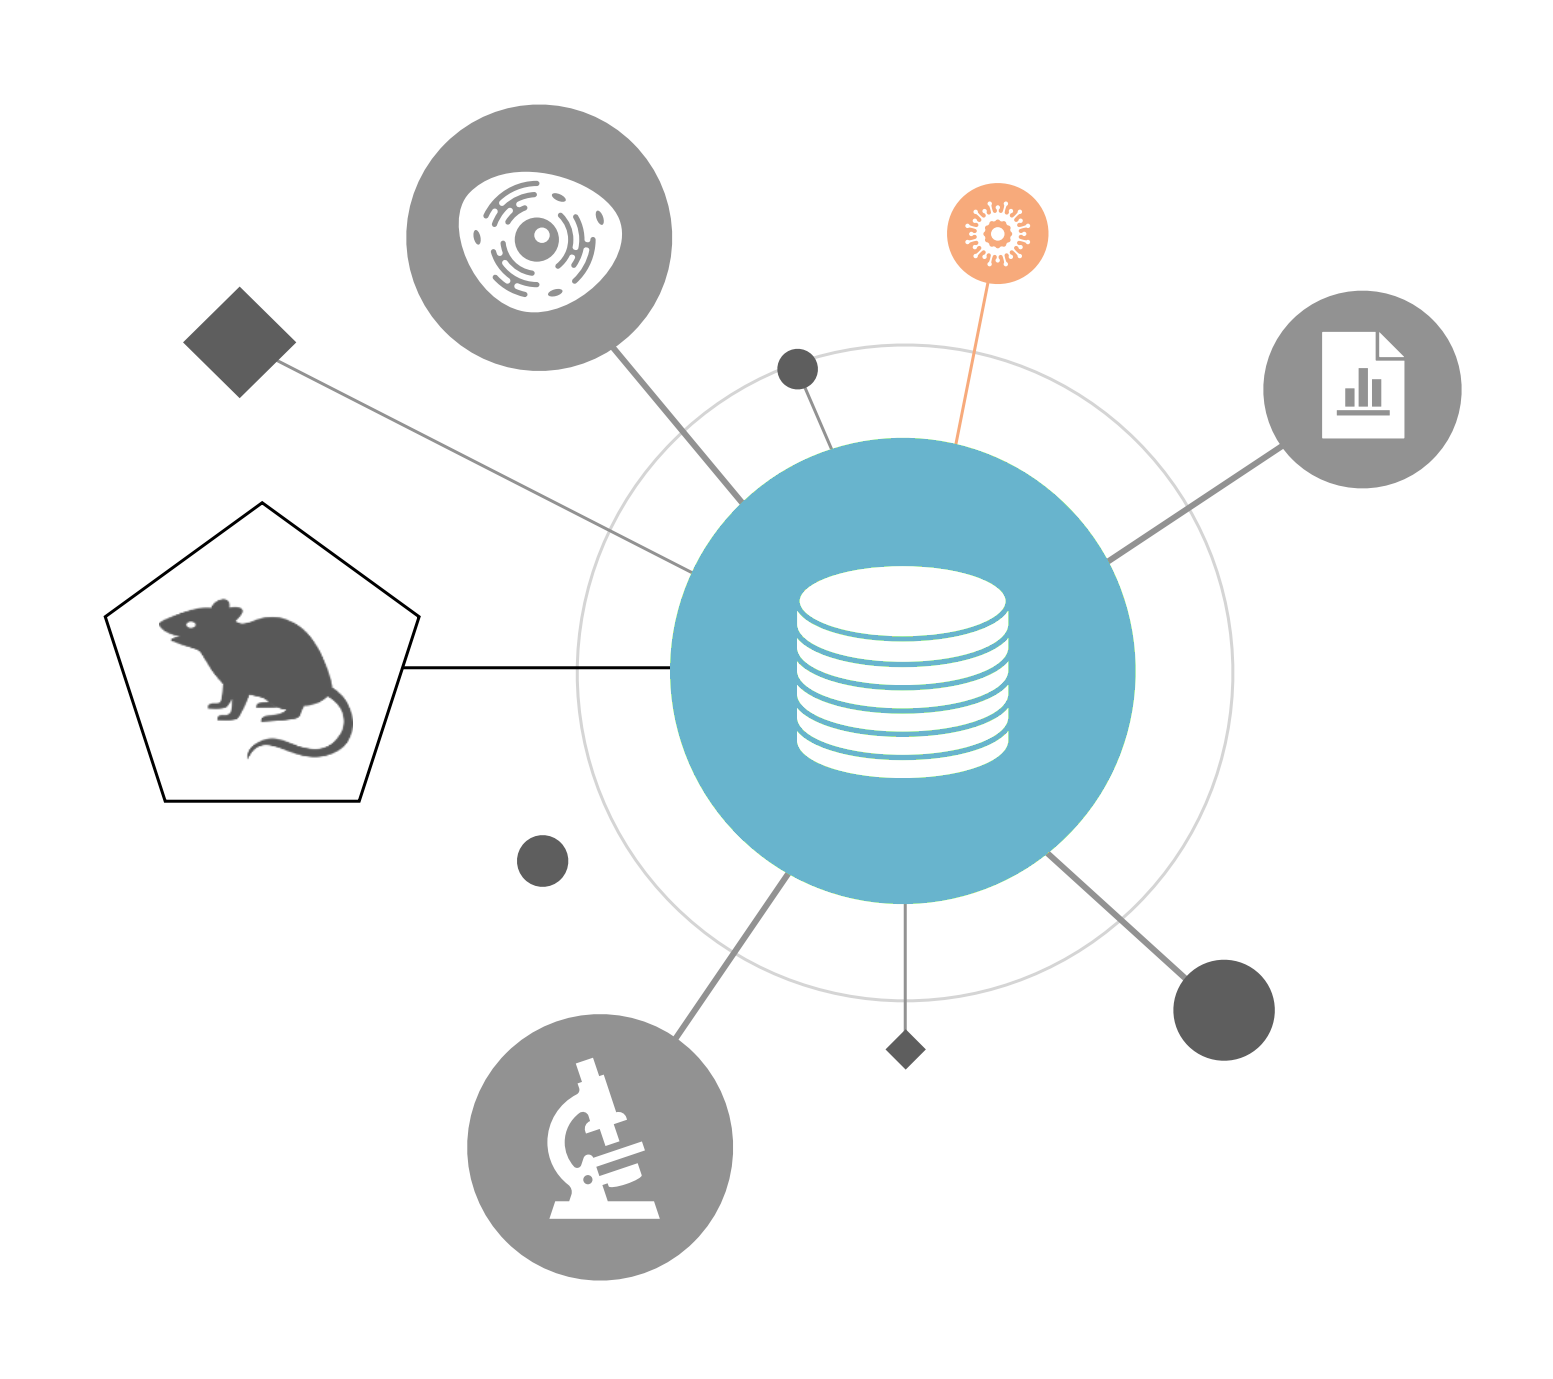
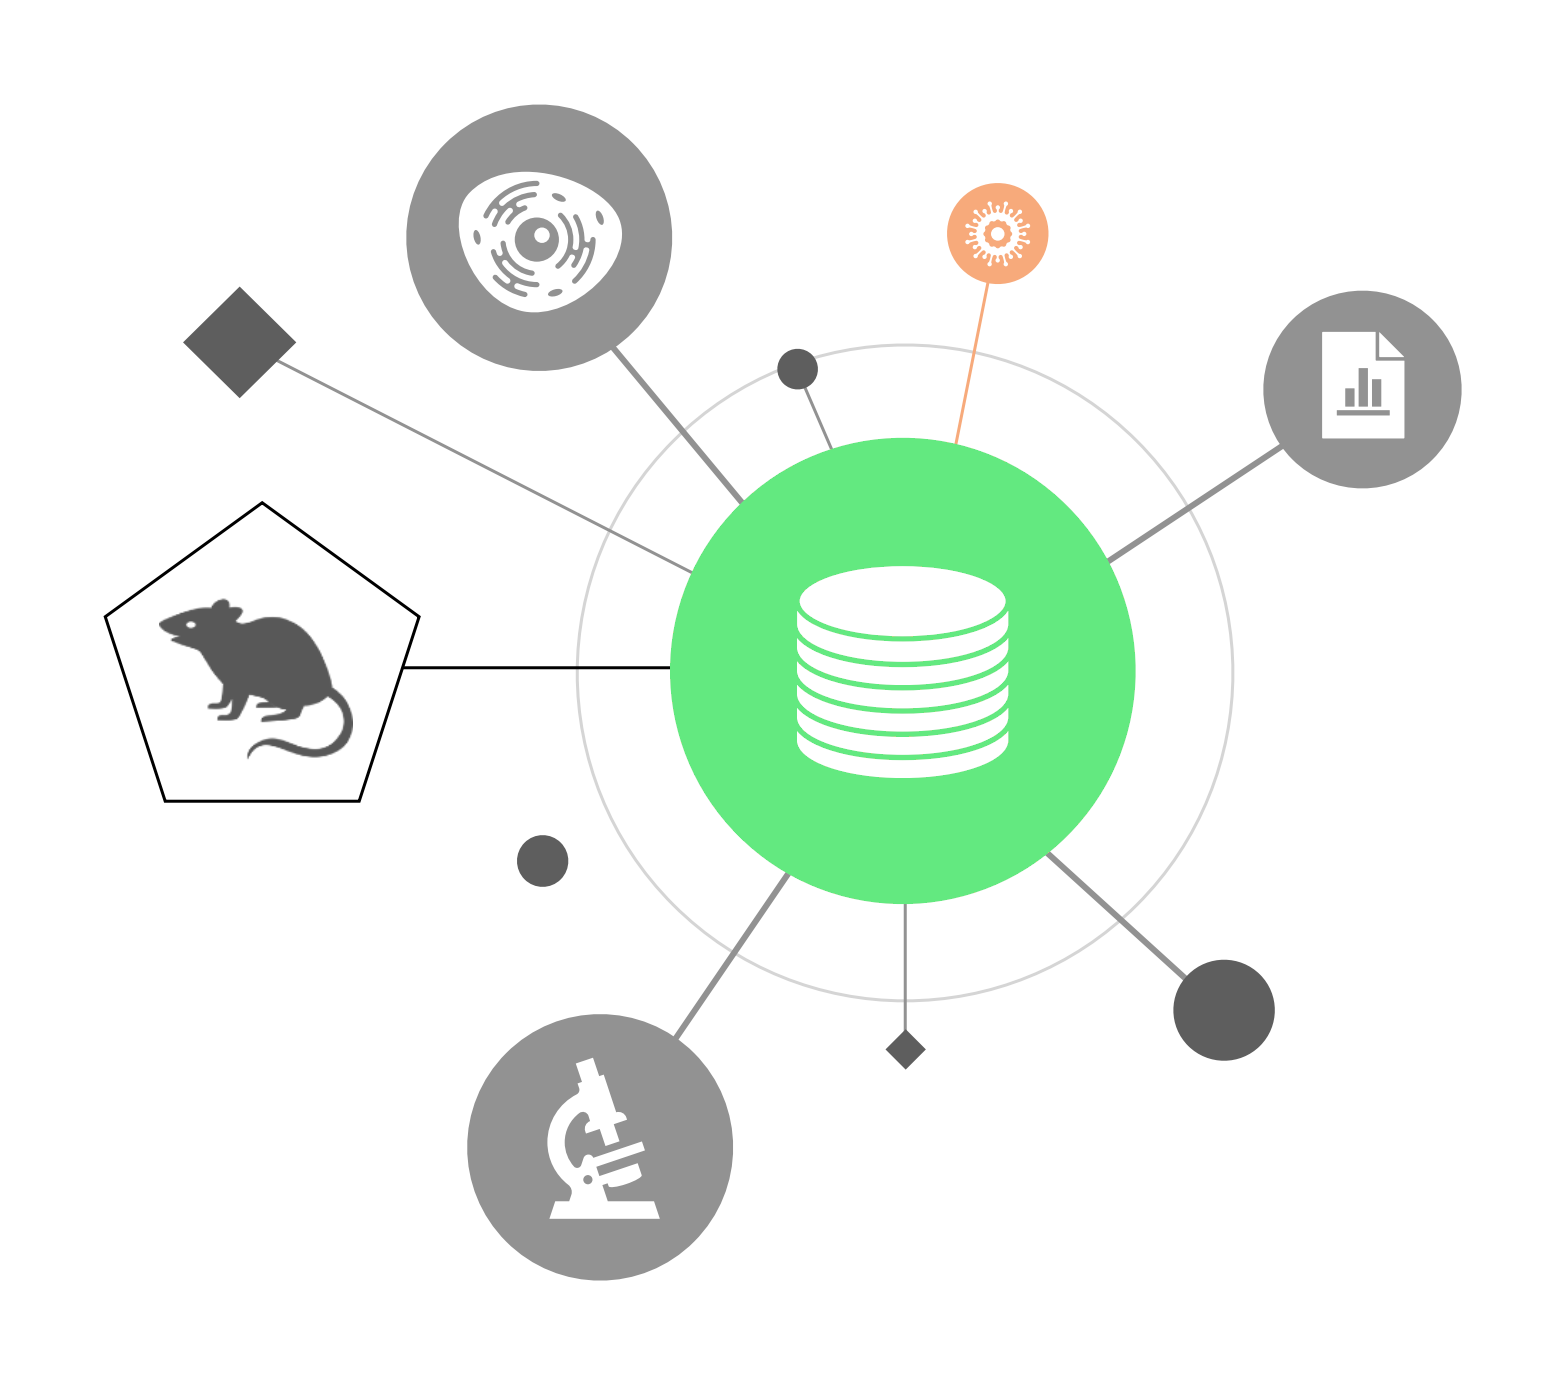
modified some statics and color scheme

Changed region(s): [[0.4327, 0.3118, 0.7418, 0.6548]]

diff --git a/ckanext/fair3r/templates/header.html b/ckanext/fair3r/templates/header.html
@@ -1,0 +1,114 @@
+{% set dataset_type = h.default_package_type() %}
+
+{% block header_wrapper %} {% block header_account %}
+<div class="account-masthead">
+  <div class="container">
+    {% block header_account_container_content %} {% if c.userobj %}
+    <div class="account avatar authed" data-module="me" data-me="{{ c.userobj.id }}">
+      <ul class="list-unstyled">
+        {% block header_account_logged %} {% if c.userobj.sysadmin %}
+        <li>
+          <a href="{{ h.url_for('admin.index') }}" title="{{ _('Sysadmin settings') }}">
+            <i class="fa fa-gavel" aria-hidden="true"></i>
+            <span class="text">{{ _('Admin') }}</span>
+          </a>
+        </li>
+        {% endif %}
+        {% block header_account_profile %}
+        <li>
+          <a href="{{ h.url_for('user.read', id=c.userobj.name) }}" class="image" title="{{ _('View profile') }}">
+            {{ h.user_image((c.user if c and c.user else ''), size=22) }}
+            <span class="username">{{ c.userobj.display_name }}</span>
+          </a>
+        </li>
+        {% endblock %}
+        {% block header_dashboard %}
+          <li>
+            <a href="{{ h.url_for('dashboard.datasets') }}" title="{{ _("View dashboard") }}">
+              <i class="fa fa-tachometer" aria-hidden="true"></i>
+              <span class="text">{{ _('Dashboard') }}</span>
+            </a>
+          </li>
+        {% endblock %}
+        {% block header_account_settings_link %}
+        <li>
+          <a href="{{ h.url_for('user.edit', id=c.userobj.name) }}" title="{{ _('Profile settings') }}">
+            <i class="fa fa-cog" aria-hidden="true"></i>
+            <span class="text">{{ _('Profile settings') }}</span>
+          </a>
+        </li>
+        {% endblock %} {% block header_account_log_out_link %}
+        <li>
+          <a href="{{ h.url_for('user.logout') }}" title="{{ _('Log out') }}">
+            <i class="fa fa-sign-out" aria-hidden="true"></i>
+            <span class="text">{{ _('Log out') }}</span>
+          </a>
+        </li>
+        {% endblock %} {% endblock %}
+      </ul>
+    </div>
+    {% else %}
+    <nav class="account not-authed" aria-label="{{ _('Account') }}">
+      <ul class="list-unstyled">
+        {% block header_account_notlogged %}
+        <li>{% link_for _('Log in'), named_route='user.login' %}</li>
+        {% if h.check_access('user_create') %}
+        <li>{% link_for _('Register'), named_route='user.register', class_='sub' %}</li>
+        {% endif %} {% endblock %}
+      </ul>
+    </nav>
+    {% endif %} {% endblock %}
+  </div>
+</div>
+{% endblock %}
+<header class="masthead">
+  <div class="container">
+    {% block header_debug %} {% if g.debug and not g.debug_supress_header %}
+    <div class="debug">Blueprint : {{ g.blueprint }}<br />View : {{ g.view }}</div>
+    {% endif %} {% endblock %}
+    <nav class="navbar navbar-expand-lg navbar-light">
+      <hgroup class="{{ g.header_class }} navbar-left">
+
+      {% block header_logo %}
+      <a class="logo" href="{{ h.url_for('home.index') }}">
+        <img src="{{ h.url_for_static('/base/images/fair3r_logo.png') }}" alt="{{ g.site_title }}"
+          title="{{ g.site_title }}" />
+      </a>
+      {% endblock %}
+
+       </hgroup>
+      <button class="navbar-toggler" type="button" data-bs-toggle="collapse" data-bs-target="#main-navigation-toggle"
+        aria-controls="main-navigation-toggle" aria-expanded="false" aria-label="{{ _('Toggle navigation') }}">
+        <span class="fa fa-bars text-white"></span>
+      </button>
+
+      <div class="main-navbar collapse navbar-collapse" id="main-navigation-toggle">
+        <ul class="navbar-nav ms-auto mb-2 mb-lg-0">
+          {% block header_site_navigation %}
+            {% block header_site_navigation_tabs %}
+              {% set org_type = h.default_group_type('organization') %}
+              {% set group_type = h.default_group_type('group') %}
+
+		          {{ h.build_nav_main(
+		            (dataset_type ~ '.search', h.humanize_entity_type('package', dataset_type, 'main nav') or _('DATASETS'), ["dataset", "resource"]),
+		            (org_type ~ '.index',
+                  h.humanize_entity_type('organization', org_type, 'main nav') or _('ORGANIZATIONS'), ['organization']),
+		            (group_type ~ '.index',
+                  h.humanize_entity_type('group', group_type, 'main nav') or _('GROUPS'), ['group']),
+		            ('home.about', _('ABOUT')) ) }}
+	          {% endblock %}
+          </ul>
+
+      {% endblock %}
+      {% block header_site_search %}
+          <form class="d-flex site-search" action="{% url_for dataset_type ~ '.search' %}" method="get">
+              <label class="d-none" for="field-sitewide-search">{% block header_site_search_label %}{{ h.humanize_entity_type('package', dataset_type, 'search_placeholder') or _('Search Datasets...') }}{% endblock %}</label>
+              <input id="field-sitewide-search" class="form-control me-2"  type="text" name="q" placeholder="{{ _('Search') }}" aria-label="{{ h.humanize_entity_type('package', dataset_type, 'search_placeholder') or _('Search datasets...') }}"/>
+              <button class="btn" type="submit" aria-label="{{ _('Submit') }}"><i class="fa fa-search"></i></button>
+          </form>
+      {% endblock %}
+      </div>
+    </nav>
+  </div>
+</header>
+{% endblock %}

diff --git a/ckanext/fair3r/templates/page.html b/ckanext/fair3r/templates/page.html
@@ -1,0 +1,137 @@
+{% extends "base.html" %}
+
+{%- block page -%}
+
+  {% block skip %}
+    <div class="visually-hidden-focusable"><a href="#content">{{ _('Skip to main content') }}</a></div>
+  {% endblock %}
+
+  {#
+  Override the header on a page by page basis by extending this block. If
+  making sitewide header changes it is preferable to override the header.html
+  file.
+  #}
+  {%- block header %}
+    {% include "header.html" %}
+  {% endblock -%}
+
+  {# The content block allows you to replace the content of the page if needed #}
+  {%- block content %}
+    {% block maintag %}<div class="main">{% endblock %}
+      <div id="content" class="container">
+        {% block main_content %}
+          {% block flash %}
+            <div class="flash-messages">
+              {% block flash_inner %}
+                {% for category, message in h.get_flashed_messages(with_categories=true) %}
+                  <div class="alert alert-dismissible fade show {{ category }}">
+                    {{ h.literal(message) }}
+                  </div>
+                {% endfor %}
+              {% endblock %}
+            </div>
+          {% endblock %}
+
+          {% block toolbar %}
+            <div class="toolbar" role="navigation" aria-label="{{ _('Breadcrumb') }}">
+              {% block breadcrumb %}
+                {% if self.breadcrumb_content() | trim %}
+                  <ol class="breadcrumb">
+                    {% snippet 'snippets/home_breadcrumb_item.html' %}
+                    {% block breadcrumb_content %}{% endblock %}
+                  </ol>
+                {% endif %}
+              {% endblock %}
+            </div>
+          {% endblock %}
+
+          <div class="row wrapper{% block wrapper_class %}{% endblock %}{% if self.secondary()|trim == '' or c.action=='resource_read' %} no-nav{% endif %}">
+            {#
+            The pre_primary block can be used to add content to before the
+            rendering of the main content columns of the page.
+            #}
+            {% block pre_primary %}
+            {% endblock %}
+
+            {% block secondary %}
+              <aside class="secondary col-md-3">
+                {#
+                The secondary_content block can be used to add content to the
+                sidebar of the page. This is the main block that is likely to be
+                used within a template.
+
+                Example:
+
+                  {% block secondary_content %}
+                    <h2>A sidebar item</h2>
+                    <p>Some content for the item</p>
+                  {% endblock %}
+                #}
+                {% block secondary_content %}{% endblock %}
+              </aside>
+            {% endblock %}
+
+            {% block primary %}
+              <div class="primary col-md-9 col-xs-12" role="main">
+                {#
+                The primary_content block can be used to add content to the page.
+                This is the main block that is likely to be used within a template.
+
+                Example:
+
+                  {% block primary_content %}
+                    <h1>My page content</h1>
+                    <p>Some content for the page</p>
+                  {% endblock %}
+                #}
+                {% block primary_content %}
+                  <article class="module">
+                    {% block page_header %}
+                      <header class="module-content page-header">
+                        {% if self.content_action() | trim %}
+                          <div class="content_action">
+                            {% block content_action %}{% endblock %}
+                          </div>
+                        {% endif %}
+                        <ul class="nav nav-tabs">
+                          {% block content_primary_nav %}{% endblock %}
+                        </ul>
+                      </header>
+                    {% endblock %}
+                    <div class="module-content">
+                      {% if self.page_primary_action() | trim %}
+                        <div class="page_primary_action">
+                          {% block page_primary_action %}{% endblock %}
+                        </div>
+                      {% endif %}
+                      {% block primary_content_inner %}
+                      {% endblock %}
+                    </div>
+                  </article>
+                {% endblock %}
+              </div>
+            {% endblock %}
+          </div>
+        {% endblock %}
+      </div>
+    </div>
+  {% endblock -%}
+
+  {#
+  Override the footer on a page by page basis by extending this block. If
+  making sitewide header changes it is preferable to override the footer.html-u
+  file.
+  #}
+  {%- block footer %}
+    {% include "footer.html" %}
+  {% endblock -%}
+{%- endblock -%}
+
+{%- block scripts %}
+  {% asset 'base/main' %}
+  {% asset 'base/ckan' %}
+  {% if g.tracking_enabled %}
+    {% asset 'base/tracking' %}
+  {% endif %}
+  {{ super() }}
+{% endblock -%}

diff --git a/ckanext/fair3r/templates/footer.html b/ckanext/fair3r/templates/footer.html
@@ -1,0 +1,40 @@
+<footer class="site-footer">
+  <div class="container">
+    {% block footer_content %}
+    <div class="row">
+      <div class="col-md-8 footer-links">
+        {% block footer_nav %}
+          <ul class="list-unstyled">
+            {% block footer_links %}
+              <li><a href="{{ h.url_for('home.about') }}">{{ _('About {0}').format(g.site_title) }}</a></li>
+            {% endblock %}
+          </ul>
+          <ul class="list-unstyled">
+            {% block footer_links_ckan %}
+              {% set api_url = 'http://docs.ckan.org/en/{0}/api/'.format(g.ckan_doc_version) %}
+              <li><a href="{{ api_url }}">{{ _('CKAN API') }}</a></li>
+              <li><a href="http://www.ckan.org/">{{ _('CKAN Association') }}</a></li>
+              <li>        
+                <a href="https://www.celphedia.eu"><img src="..//base/images/logo-celphedia.svg" alt="Celphedia Logo" style="height: 40px;background-color: white;"></a>
+                <a href="https://www.fc3r.com"><img src="..//base/images/logo-FC3R.svg" alt="FC3R Logo" style="height: 40px;background-color: white;"></a>
+                <a href="https://www.cnrs.fr"><img src="..//base/images/logo-cnrs.svg" alt="CNRS Logo" style="height: 40px;background-color: white;"></a>
+                <a href="https://www.inserm.fr"><img src="..//base/images/logo-inserm.svg" alt="INSERM Logo" style="height: 40px;background-color: white;"></a>
+                <a href="https://www.unistra.fr"><img src="..//base/images/logo-unistra.svg" alt="unistra Logo" style="height: 40px;background-color: white;"></a>
+              </li>
+              <li><a href="http://www.opendefinition.org/okd/"><img src="{{ h.url_for_static('/base/images/od_80x15_blue.png') }}" alt="Open Data"></a></li>
+            {% endblock %}
+          </ul>
+        {% endblock %}
+      </div>
+      <div class="col-md-4 attribution">
+        {% block footer_attribution %}
+          <p>{% trans %}<strong>Powered by</strong> <a class="hide-text ckan-footer-logo" href="http://ckan.org">CKAN</a>{% endtrans %}</p>
+        {% endblock %}
+        {% block footer_lang %}
+          {% snippet "snippets/language_selector.html" %}
+        {% endblock %}
+      </div>
+    </div>
+    {% endblock %}
+  </div>
+</footer>

diff --git a/ckanext/fair3r/public/base/css/fair3r.css b/ckanext/fair3r/public/base/css/fair3r.css
@@ -1,5 +1,5 @@
 :root{
-    --fair3r-main-color: #fadb21;
+    --fair3r-main-color: #1aa1f2;
 }
 
 @font-face {
@@ -89,3 +89,54 @@
     background-position: 110%;
   }
 }
+
+.account-masthead{
+    background: #d0d0d0;
+}
+
+.account-masthead .account ul li{
+    border-left: unset;
+}
+
+.account-masthead .account ul li a{
+    color: black;
+}
+
+.account-masthead .account .notifications a span.badge{
+    background-color: var(--fair3r-main-color);
+    color: black;
+}
+
+.masthead{
+    background: #f9f9f9;
+}
+
+.masthead .main-navbar ul li a{
+    color: black;
+    font-size: 16px;
+}
+
+.masthead .navbar .logo img{
+    max-height: 80px;
+}
+
+.masthead .main-navbar ul li a:hover{
+    background: #e5e5e5;
+}
+
+.masthead .main-navbar ul li.active a{
+    background-color: #595959;
+    color: white;
+}
+
+.navbar-light .navbar-toggler{
+    color: rgba(0, 0, 0, 0.3);
+    border-color: rgba(0, 0, 0, 0.3);
+}
+
+.navbar-light .navbar-toggler span.text-white{
+    color: unset !important;
+}
+
+
+

diff --git a/ckanext/fair3r/templates/error_document_template.html b/ckanext/fair3r/templates/error_document_template.html
@@ -1,0 +1,31 @@
+{% extends "page.html" %}
+
+{% block subtitle %}{{ gettext('Error %(error_code)s', error_code=code) }}{% endblock %}
+
+{% block primary %}
+  <article class="module">
+    <div class="module-content">
+      {% if name %}
+      <h1>{{ code }} {{ name }}</h1>
+      {% endif %}
+      {{ content}}
+    </div>
+    {% block login_redirect %}
+    {% if show_login_redirect_link %}
+    <div class="module-content">
+      {{ _("You might need to login to access this page.") }} <a href="{{ h.url_for('user.login') }}">{{ _("Click here to login") }}</a> 
+    </div>
+  {% endif %}
+  {% endblock %}
+  </article>
+{% endblock %}
+
+{% block breadcrumb %}
+{% endblock %}
+
+{% block flash %}
+  {# eat the flash messages caused by the 404 #}
+  {% set flash_messages = h.get_flashed_messages() %}
+{% endblock %}
+
+{% block secondary %}{% endblock %}
